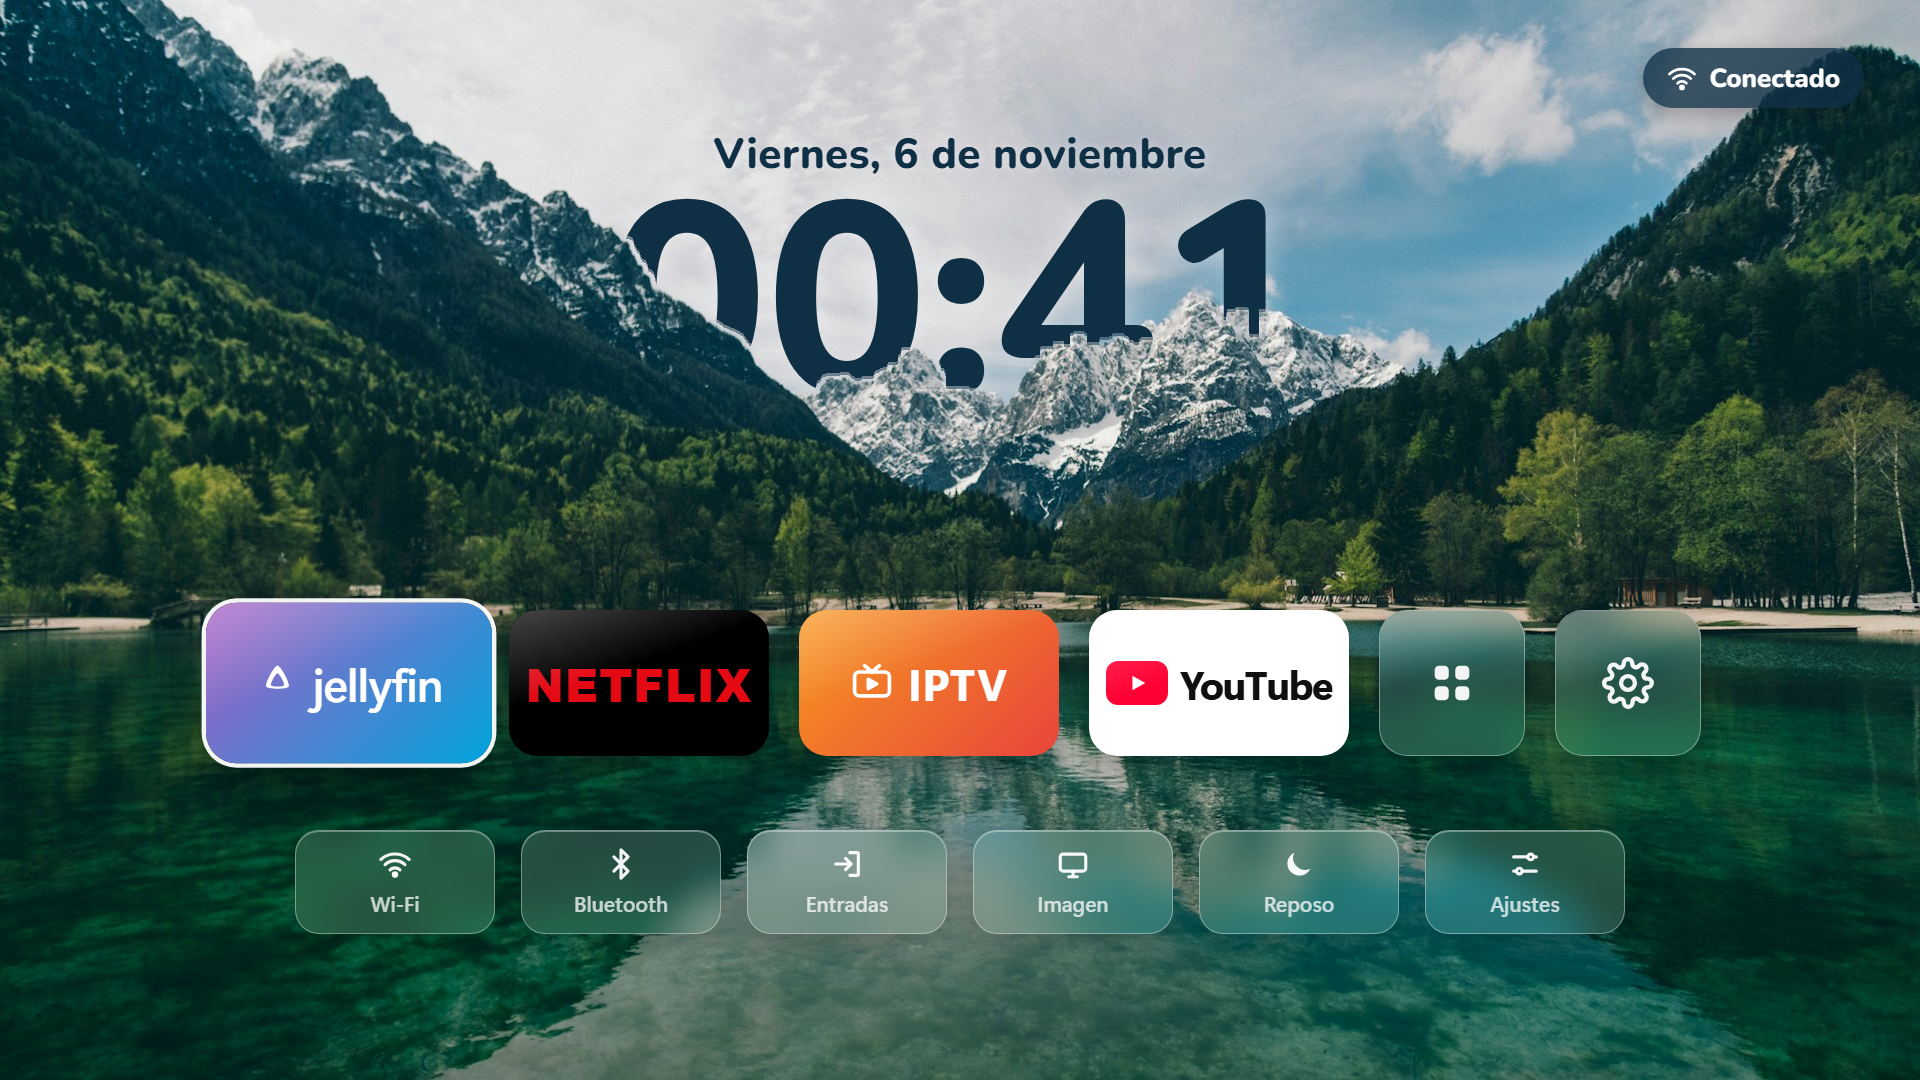
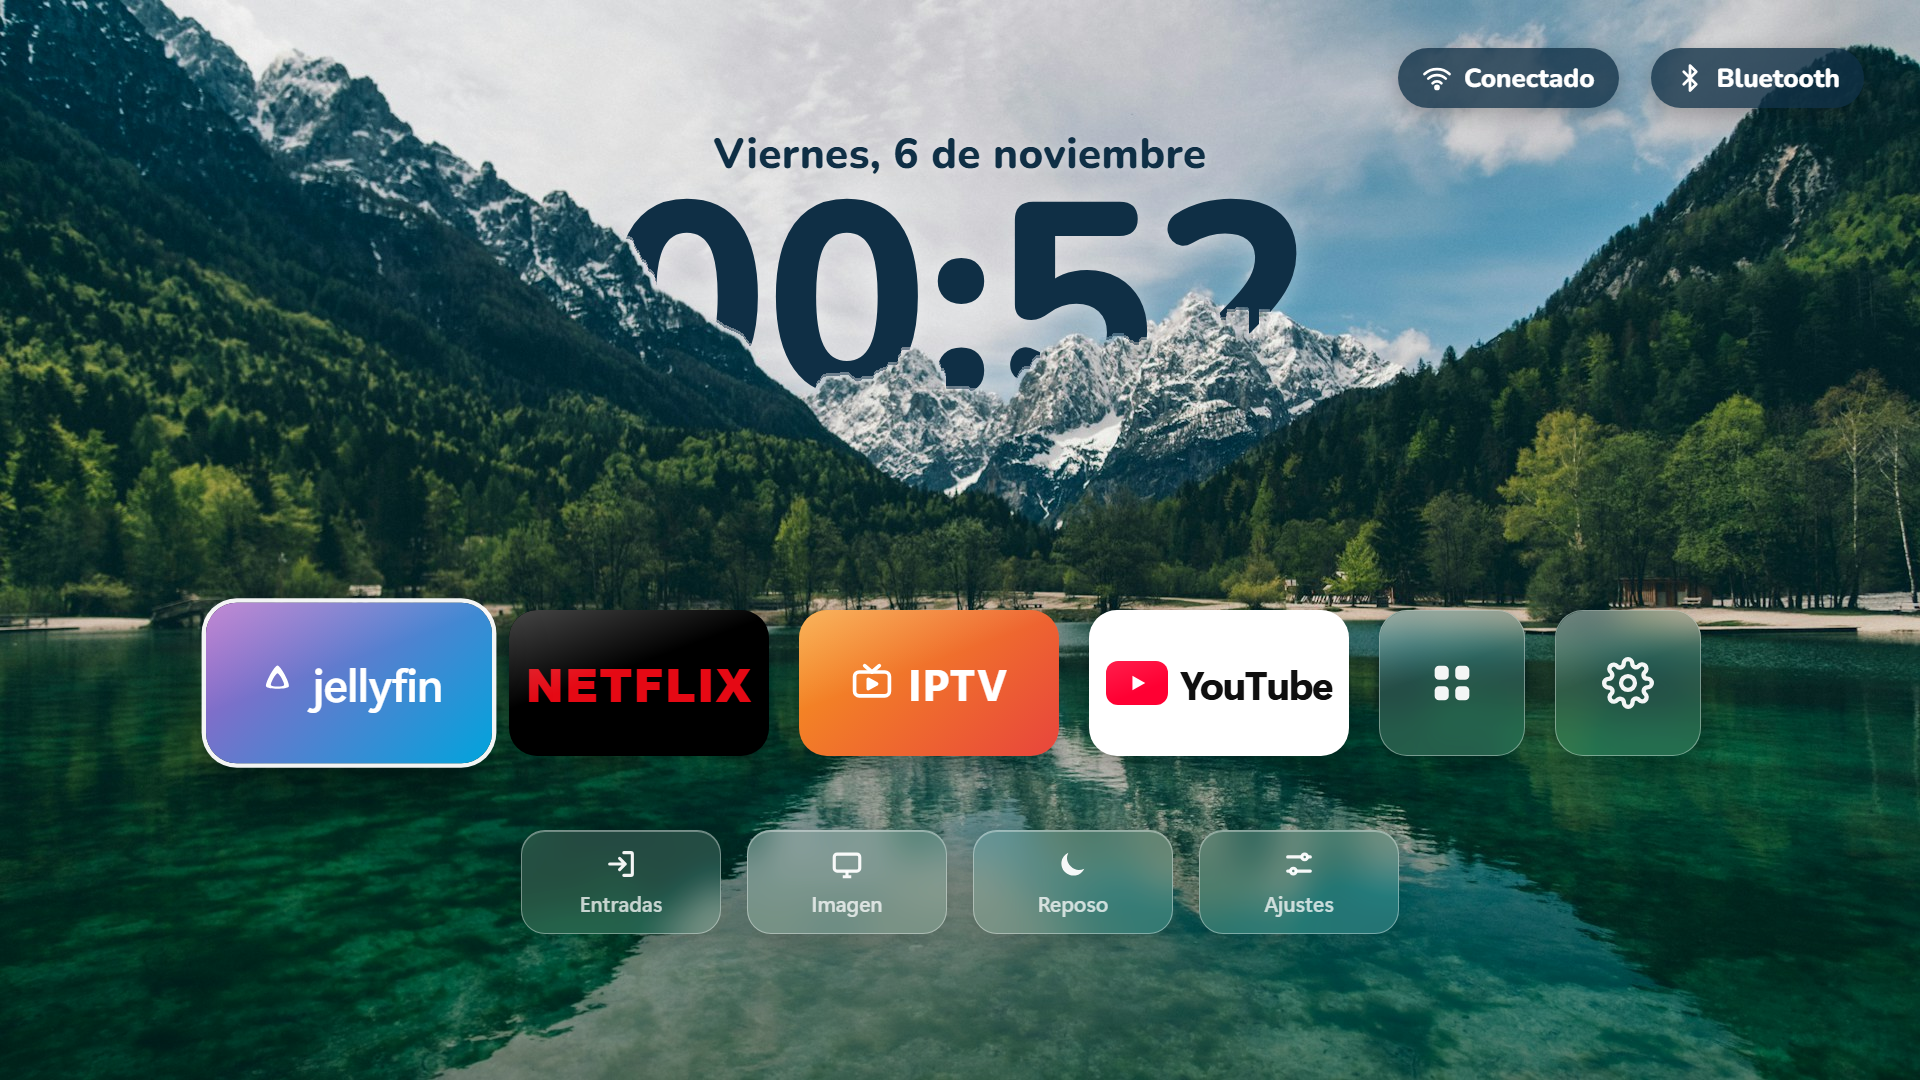
Botones de Wi-Fi y Bluetooth arriba a la derecha
El de Wi-Fi muestra el nombre de la red y el de Bluetooth el aparato conectado; los dos se eligen con el mando. La hora sigue detrás de las montañas.

diff --git a/android-tv-launcher/assets/index.html b/android-tv-launcher/assets/index.html
@@ -55,6 +55,12 @@
     box-shadow: 0 6px 20px rgba(0,0,0,.25);
   }
   #wifi.off { background: rgba(170,40,40,.85); }
+  #bt { background: rgba(15,47,69,.78); color: #fff; font-family: "Nunito", sans-serif; font-weight: 800; font-size: 26px; box-shadow: 0 6px 20px rgba(0,0,0,.25); }
+  #bt.off { background: rgba(70,80,90,.7); }
+  #bt { margin-left: 16px; }   /* WebView 83 no tiene gap en flex */
+  #status .pill.focus { transform: scale(1.05); box-shadow: 0 0 0 3px rgba(255,255,255,.95), 0 10px 24px rgba(0,0,0,.35); }
+  .pill { max-width: 360px; }
+  .pill span { white-space: nowrap; overflow: hidden; text-overflow: ellipsis; }
 
   /* Nunito: letra redondeada para la fecha y la hora */
   @font-face { font-family: "Nunito"; font-weight: 800; src: url("nunito-800.woff2") format("woff2"); }
@@ -124,10 +130,10 @@
   /* Todas las apps */
   #drawer {
     position: absolute; top: 0; left: 0; right: 0; bottom: 0; display: none;
-    background: rgba(8,18,24,.6);
-    backdrop-filter: blur(30px); -webkit-backdrop-filter: blur(30px);
+    background: rgba(9,16,20,.98);
     overflow-y: auto; scrollbar-width: none;
     padding: 90px 0 120px;
+    z-index: 50;
   }
   #drawer::-webkit-scrollbar { display: none; }
   #drawer.open { display: block; }
@@ -137,6 +143,7 @@
     height: 141px; border-radius: 24px; overflow: hidden;
     display: flex; flex-direction: column; align-items: center; justify-content: center;
     font-size: 21px; font-weight: 500; text-align: center; padding: 0 12px;
+    background: rgba(255,255,255,.08); border: 1.5px solid rgba(255,255,255,.18);
   }
   .dapp img.icon { width: 72px; height: 72px; margin-bottom: 10px; }
   .dapp img.banner { position: absolute; top: 0; left: 0; right: 0; bottom: 0; width: 100%; height: 100%; object-fit: cover; }
@@ -157,9 +164,13 @@
   <div id="shade"></div>
 
   <div id="status">
-    <div class="pill" id="wifi">
+    <div class="pill tile" id="wifi" data-name="Wi‑Fi" data-action="android.settings.WIFI_SETTINGS">
       <svg viewBox="0 0 24 24" fill="none" stroke="currentColor" stroke-width="2.2" stroke-linecap="round"><path d="M2 8.8a15 15 0 0 1 20 0M5 12.5a10 10 0 0 1 14 0M8.5 16.2a5 5 0 0 1 7 0"/><circle cx="12" cy="19.5" r="1.2" fill="currentColor"/></svg>
       <span id="wifi-text">Conectado</span>
+    </div>
+    <div class="pill tile" id="bt" data-name="Bluetooth" data-component="com.android.tv.settings/.accessories.AddAccessoryActivity" data-action="android.settings.BLUETOOTH_SETTINGS">
+      <svg viewBox="0 0 24 24" fill="none" stroke="currentColor" stroke-width="2.2" stroke-linecap="round" stroke-linejoin="round"><path d="M7 7l10 10-5 5V2l5 5L7 17"/></svg>
+      <span id="bt-text">Bluetooth</span>
     </div>
   </div>
 
@@ -181,19 +192,13 @@
     </div>
   </div>
 
-  <!-- data-pkgs: apps de la tele que se prueban primero; data-action: pantalla estándar de Android -->
+  <!-- Se prueba en orden: data-component (pantalla de la marca), data-pkgs (app de la tele) y data-action (ajuste estándar) -->
   <div class="row" id="quick">
-    <div class="tile qs glass" data-name="Wi‑Fi" data-action="android.settings.WIFI_SETTINGS">
-      <svg viewBox="0 0 24 24" fill="none" stroke="currentColor" stroke-width="2.2" stroke-linecap="round"><path d="M2 8.8a15 15 0 0 1 20 0M5 12.5a10 10 0 0 1 14 0M8.5 16.2a5 5 0 0 1 7 0"/><circle cx="12" cy="19.5" r="1.2" fill="currentColor"/></svg>Wi‑Fi
-    </div>
-    <div class="tile qs glass" data-name="Bluetooth" data-action="android.settings.BLUETOOTH_SETTINGS">
-      <svg viewBox="0 0 24 24" fill="none" stroke="currentColor" stroke-width="2.2" stroke-linecap="round" stroke-linejoin="round"><path d="M7 7l10 10-5 5V2l5 5L7 17"/></svg>Bluetooth
-    </div>
-    <div class="tile qs glass" data-name="Entradas" data-pkgs="com.google.android.tv,com.android.tv,com.mediatek.wwtv.tvcenter,com.sony.dtv.tvx,com.tcl.tv,com.xiaomi.mitv.tvplayer,org.droidtv.playtv" data-action="android.settings.SETTINGS">
+    <div class="tile qs glass" data-name="Entradas" data-component="com.tcl.sourcemananger/com.tcl.sourcemanager.MainActivity" data-pkgs="com.google.android.tv,com.android.tv,com.mediatek.wwtv.tvcenter,com.sony.dtv.tvx,com.tcl.tv,com.xiaomi.mitv.tvplayer,org.droidtv.playtv" data-action="android.settings.SETTINGS">
       <svg viewBox="0 0 24 24" fill="none" stroke="currentColor" stroke-width="2.2" stroke-linecap="round" stroke-linejoin="round"><path d="M14 4h5a1 1 0 0 1 1 1v14a1 1 0 0 1-1 1h-5M4 12h11M11 8l4 4-4 4"/></svg>Entradas
     </div>
     <div class="tile qs glass" data-name="Imagen" data-action="android.settings.DISPLAY_SETTINGS">
-      <svg viewBox="0 0 24 24" fill="none" stroke="currentColor" stroke-width="2.2" stroke-linecap="round" stroke-linejoin="round"><rect x="3" y="5" width="18" height="12" rx="2"/><path d="M9 21h6M12 17v4"/></svg>Imagen
+      <svg viewBox="0 0 24 24" fill="none" stroke="currentColor" stroke-width="2.2" stroke-linejoin="round"><rect x="3" y="5" width="18" height="12" rx="2"/><path d="M9 21h6M12 17v4"/></svg>Imagen
     </div>
     <div class="tile qs glass" data-name="Reposo" data-action="screensaver">
       <svg viewBox="0 0 24 24" fill="currentColor"><path d="M20 15.3A8.5 8.5 0 0 1 8.7 4a8.5 8.5 0 1 0 11.3 11.3z"/></svg>Reposo
@@ -231,12 +236,27 @@
   }
   tick(); setInterval(tick, 1000);
 
-  function updateWifi() {
-    const on = navigator.onLine;
-    document.getElementById('wifi').classList.toggle('off', !on);
-    document.getElementById('wifi-text').textContent = on ? 'Conectado' : 'Sin conexión';
+  // Botones de arriba: nombre de la red Wi‑Fi y aparato Bluetooth conectado (los da Android.netStatus)
+  function updateNet() {
+    let st = null;
+    try { st = (window.Android && Android.netStatus) ? JSON.parse(Android.netStatus()) : null; } catch (e) {}
+    const wifiEl = document.getElementById('wifi');
+    const wifiTxt = document.getElementById('wifi-text');
+    const btEl = document.getElementById('bt');
+    const btTxt = document.getElementById('bt-text');
+    if (st) {
+      wifiEl.classList.toggle('off', !st.online);
+      wifiTxt.textContent = st.online ? (st.ssid || 'Conectado') : 'Sin conexión';
+      btEl.classList.toggle('off', !st.btOn);
+      btTxt.textContent = st.btOn ? (st.bt || 'Bluetooth') : 'Bluetooth';
+    } else {
+      const on = navigator.onLine;
+      wifiEl.classList.toggle('off', !on);
+      wifiTxt.textContent = on ? 'Conectado' : 'Sin conexión';
+    }
   }
-  addEventListener('online', updateWifi); addEventListener('offline', updateWifi); updateWifi();
+  addEventListener('online', updateNet); addEventListener('offline', updateNet); updateNet();
+  setInterval(updateNet, 8000);
 
   let toastTimer;
   function toast(msg) {
@@ -248,8 +268,12 @@
   }
 
   // --- Pantalla principal ---
-  const rows = [...document.querySelectorAll('.row')].map(r => [...r.querySelectorAll('.tile')]);
-  let r = 0, c = 0;
+  // Fila 0: botones de Wi‑Fi y Bluetooth de arriba; se empieza en la fila de apps
+  const rows = [
+    [...document.querySelectorAll('#status .tile')],
+    ...[...document.querySelectorAll('.row')].map(r => [...r.querySelectorAll('.tile')])
+  ];
+  let r = 1, c = 0;
   function focusHome() {
     document.querySelectorAll('.tile.focus').forEach(t => t.classList.remove('focus'));
     rows[r][c].classList.add('focus');
@@ -260,7 +284,7 @@
     if (action === 'drawer') return openDrawer();
     if (!Native) return toast('Abriendo ' + tile.dataset.name + '…');
     if (action === 'screensaver') return Native.screensaver();
-    if (tile.dataset.component && Native.component(tile.dataset.component)) return;
+    if (tile.dataset.component && tile.dataset.component.split(',').some(cmp => Native.component(cmp))) return;
     if (tile.dataset.pkgs && Native.launch(tile.dataset.pkgs)) return;
     if (action) return Native.settings(action);
     if (tile.dataset.pkgs) toast(tile.dataset.name + ' no está instalada');
@@ -283,7 +307,7 @@
     grid.innerHTML = '';
     for (const a of apps) {
       const el = document.createElement('div');
-      el.className = 'tile dapp glass';
+      el.className = 'tile dapp';
       el.dataset.pkg = a.pkg;
       el.dataset.name = a.label;
       if (a.img && a.wide) {
@@ -340,7 +364,7 @@
     focusHome();
   };
   window.onResumeHome = function () {
-    tick();
+    tick(); updateNet();
     if (drawer.classList.contains('open')) closeDrawer();
   };
 

diff --git a/android-tv-launcher/src/com/inicio/tv/MainActivity.java b/android-tv-launcher/src/com/inicio/tv/MainActivity.java
@@ -211,5 +211,43 @@ public class MainActivity extends Activity {
             });
             return new JSONArray(list).toString();
         }
+
+        /** Estado de red para los botones de arriba: {online, ssid, btOn, bt}. */
+        @JavascriptInterface
+        public String netStatus() {
+            JSONObject o = new JSONObject();
+            try {
+                android.net.ConnectivityManager cm = (android.net.ConnectivityManager) getSystemService(CONNECTIVITY_SERVICE);
+                android.net.NetworkInfo ni = cm != null ? cm.getActiveNetworkInfo() : null;
+                o.put("online", ni != null && ni.isConnected());
+                String ssid = "";
+                android.net.wifi.WifiManager wm = (android.net.wifi.WifiManager) getApplicationContext().getSystemService(WIFI_SERVICE);
+                if (wm != null && wm.isWifiEnabled()) {
+                    android.net.wifi.WifiInfo wi = wm.getConnectionInfo();
+                    if (wi != null && wi.getSSID() != null) {
+                        String s = wi.getSSID().replace("\"", "");
+                        if (!s.isEmpty() && !s.equalsIgnoreCase("<unknown ssid>") && !s.equals("0x")) ssid = s;
+                    }
+                }
+                o.put("ssid", ssid);
+                String bt = "";
+                android.bluetooth.BluetoothAdapter ba = android.bluetooth.BluetoothAdapter.getDefaultAdapter();
+                boolean btOn = ba != null && ba.isEnabled();
+                o.put("btOn", btOn);
+                if (btOn) {
+                    // isConnected() está oculto en el SDK; se llama por reflexión
+                    for (android.bluetooth.BluetoothDevice d : ba.getBondedDevices()) {
+                        try {
+                            java.lang.reflect.Method m = d.getClass().getMethod("isConnected");
+                            if (Boolean.TRUE.equals(m.invoke(d))) { bt = d.getName(); break; }
+                        } catch (Exception ignored) {}
+                    }
+                }
+                o.put("bt", bt);
+            } catch (Exception e) {
+                try { o.put("err", e.toString()); } catch (Exception ignored) {}
+            }
+            return o.toString();
+        }
     }
 }

diff --git a/README.md b/README.md
@@ -6,8 +6,8 @@ Una pantalla de inicio "tipo Apple" para teles y cajas **Android TV** (Android 5
 
 - Fondo de un lago con montañas, y **la hora escondida detrás de las montañas** (efecto profundidad).
 - Botones grandes para **Jellyfin, Netflix, IPTV y YouTube**, más "Todas las apps" y Ajustes.
-- Accesos rápidos: **Wi‑Fi, Bluetooth, Entradas** (HDMI y canales), **Imagen**, **Reposo** y **Ajustes**.
-- Indicador de **Wi‑Fi** arriba a la derecha.
+- Arriba a la derecha, botones de **Wi‑Fi** (con el nombre de tu red) y **Bluetooth** (con el aparato conectado, por ejemplo unos auriculares). Se eligen con el mando y abren sus ajustes.
+- Accesos rápidos: **Entradas** (HDMI y canales), **Imagen**, **Reposo** y **Ajustes**.
 - Todo se maneja con las flechas y el OK del mando.
 
 ![Todas las apps](docs/todas-las-apps.png)
